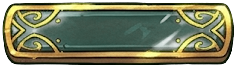
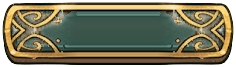
v22: Fan GDDs as a 3-column card grid with one explainer; hover frames re-sliced past the ornaments (no smear) and de-greened; construct outline hugs fist and shelf; About hover colour/mask match
Claude-Session: https://claude.ai/code/session_01DVG5f7VBQkdwappbx1RNPL

diff --git a/concepts/scenes/workshop.js b/concepts/scenes/workshop.js
@@ -21,7 +21,7 @@ PF.init({
     var el=P.el,K=900/572,OX=(1600-1024*K)/2,T='translate('+OX+',0) scale('+K+')';
     var CUT={raven:{x:49.69,y:19.48,w:233.74,h:296.94},construct:{x:769.59,y:48.10,w:254.41,h:273.49},books:{x:50.09,y:331.93,w:234.93,h:239.70},about:{x:333.52,y:358.96,w:377.24,h:212.67},disc:{x:674.98,y:275.88,w:284.22,h:295.75}};
     var HOV={raven:{x:53.66,y:22.66,w:294.56,h:289.39},books:{x:69.57,y:241.29,w:212.67,h:166.96},construct:{x:748.52,y:50.48,w:205.12,h:209.09},about:{x:336.30,y:362.14,w:370.48,h:209.49},disc:{x:718.31,y:280.25,w:236.52,h:256.00}};
-    var RING={"disc":"M843.13 567.66 807.75 568.01 797.81 567.80 795.43 567.05 791.82 563.28 790.78 560.50 789.90 543.80 790.00 537.04 791.11 533.86 790.66 532.90 777.14 526.69 772.77 527.71 768.40 527.68 764.02 526.95 760.05 525.02 758.06 524.64 751.70 527.14 745.34 527.28 735.40 525.91 733.02 524.89 728.66 520.75 728.04 519.16 728.12 517.57 732.08 511.60 736.20 506.75 738.02 502.06 737.52 500.07 735.66 496.89 734.30 488.55 732.62 485.83 730.63 484.50 714.73 481.58 699.63 482.31 694.06 481.34 691.74 480.20 690.03 478.61 685.10 472.25 684.22 469.47 684.51 467.08 687.11 461.91 689.69 459.35 695.25 455.86 702.81 452.48 713.54 449.81 715.21 448.40 712.15 432.10 710.82 418.98 710.84 404.67 712.95 386.39 715.83 374.06 720.62 360.55 728.15 345.04 734.75 335.11 743.21 324.37 753.69 313.89 763.63 306.16 773.57 299.85 783.90 294.66 794.63 290.48 806.56 287.27 821.66 285.13 833.99 285.10 838.76 286.18 846.31 286.54 866.98 292.82 870.56 293.10 873.34 293.94 884.07 299.02 888.84 301.85 906.73 314.81 913.89 320.63 916.27 324.42 924.54 334.71 929.83 342.66 935.87 353.39 941.15 365.71 944.32 375.25 947.48 388.77 949.55 405.47 949.70 415.80 951.16 420.57 951.14 424.15 949.92 431.70 947.06 445.22 944.75 453.57 931.06 482.58 930.88 485.37 932.02 488.94 932.31 493.32 934.85 500.07 934.57 502.06 932.95 505.24 932.77 510.01 931.73 512.40 930.19 513.92 928.20 514.82 921.84 515.13 918.66 518.36 916.67 519.42 911.50 518.67 908.72 519.18 900.37 525.88 894.81 529.02 891.23 529.34 882.88 527.62 871.27 532.67 870.59 533.86 872.83 536.25 874.05 540.62 874.47 551.35 874.03 562.48 873.27 564.47 871.75 565.66 869.37 566.34 843.13 567.66Z","raven":"M142.71 308.88 135.95 309.21 124.82 308.32 122.43 307.29 120.40 305.69 119.48 304.10 119.01 301.71 119.23 291.78 117.71 281.04 118.37 276.27 119.87 274.68 122.43 273.73 132.91 273.09 137.90 268.72 138.29 267.93 137.93 267.13 132.37 266.03 128.80 265.91 111.70 267.86 69.17 267.82 65.19 267.20 62.01 266.00 59.05 263.55 57.37 261.17 56.11 254.41 56.41 240.50 58.54 235.73 60.02 234.19 62.81 232.54 63.61 230.56 63.27 207.11 63.84 202.73 64.93 199.16 63.29 190.81 62.87 168.94 63.54 163.78 66.38 155.83 64.62 150.26 63.68 143.50 63.65 127.60 64.15 122.04 65.82 115.68 68.56 109.71 66.99 105.74 66.98 102.16 68.69 93.02 72.28 81.89 75.73 75.13 79.80 69.57 83.08 66.42 87.78 64.00 89.72 58.04 94.21 52.77 115.68 36.08 120.05 33.68 127.20 32.32 132.77 29.65 138.73 27.74 150.26 25.64 163.38 25.08 175.30 25.59 185.24 27.57 189.22 29.12 192.80 31.47 199.95 32.53 205.52 34.95 218.63 44.51 226.19 50.78 229.38 54.06 231.48 58.04 235.33 60.42 238.60 63.60 240.99 67.18 246.75 78.31 253.01 96.99 254.29 102.56 254.10 107.73 255.30 111.30 255.85 115.28 256.42 125.61 256.77 126.81 257.59 127.51 259.98 127.43 268.72 124.69 270.71 125.12 273.09 126.60 274.68 126.79 284.22 124.08 293.50 120.45 310.86 110.23 315.23 108.20 317.22 108.47 318.79 110.11 318.91 112.50 317.51 116.47 318.01 117.19 318.81 117.18 323.67 114.88 335.11 108.22 338.29 107.27 339.88 107.66 341.25 108.92 341.71 110.51 341.33 112.89 338.59 117.66 332.30 124.82 332.17 126.01 333.91 126.23 345.04 122.83 346.63 123.18 347.73 124.02 348.47 126.81 346.72 130.39 339.88 137.24 335.90 140.14 325.59 145.89 325.81 146.68 326.76 147.01 335.90 147.63 337.49 148.81 338.04 150.66 337.09 152.76 333.91 155.61 323.11 160.60 322.92 161.39 324.12 164.57 322.78 166.99 319.20 169.06 314.43 170.89 308.87 170.89 306.56 174.51 304.89 175.94 301.71 177.51 296.15 179.15 294.78 182.46 292.97 184.24 290.58 185.10 283.03 186.30 280.71 189.61 279.06 190.91 272.55 192.00 271.30 195.58 269.91 196.95 266.73 198.11 262.76 198.19 261.68 199.16 258.40 205.12 257.60 211.48 256.78 228.57 257.59 230.72 261.57 232.72 263.45 234.53 264.98 237.32 265.98 240.50 267.02 246.06 267.05 253.22 265.96 259.98 264.35 262.43 260.77 264.90 256.80 265.86 204.72 266.31 184.49 267.93 183.72 268.72 183.86 269.52 186.83 271.86 188.82 272.30 198.36 272.56 200.30 273.49 201.48 275.08 201.89 277.86 201.88 302.11 201.54 304.10 200.75 305.31 197.96 306.71 188.02 307.60 142.71 308.88Z","books":"M159.01 566.46 142.31 566.37 137.14 565.32 131.58 566.05 128.40 564.83 125.91 562.09 124.11 549.76 124.20 532.27 125.51 529.49 128.40 527.26 131.58 526.46 138.34 525.90 138.71 525.12 138.39 524.32 134.41 520.35 122.43 514.65 116.07 512.56 105.25 508.02 96.99 506.70 87.85 503.87 77.04 498.88 63.60 494.00 61.22 492.59 59.23 490.66 57.82 487.75 57.73 482.98 60.34 474.63 58.96 469.86 59.01 464.70 56.62 458.34 56.31 449.19 57.53 446.81 61.28 443.63 61.92 442.43 62.59 434.88 63.94 430.91 64.63 422.96 66.60 416.60 71.16 409.69 73.54 407.95 77.91 406.00 79.64 403.88 79.85 397.12 78.03 391.55 79.09 387.98 81.89 385.29 85.86 383.09 97.79 377.88 105.34 375.90 106.60 374.86 106.28 373.27 99.95 361.74 97.96 355.38 97.44 351.40 97.47 343.45 98.37 335.50 103.69 321.59 106.00 318.41 107.73 317.26 110.51 316.58 129.99 315.18 147.88 313.15 159.40 311.30 161.79 310.39 166.16 306.59 168.94 305.21 175.70 303.41 183.25 303.66 194.16 296.55 213.47 282.46 217.04 280.79 221.02 280.46 224.20 281.23 228.97 283.44 233.74 283.17 237.71 283.93 242.48 286.41 247.03 290.58 248.72 292.97 250.56 297.74 251.57 303.70 250.67 309.27 253.11 313.24 253.93 317.22 253.81 321.99 252.24 328.75 250.73 331.53 248.45 334.10 243.68 337.19 227.78 341.66 214.66 344.48 213.39 345.44 213.89 346.24 217.84 347.75 220.62 349.67 223.31 352.60 225.14 355.78 226.90 360.55 227.70 365.71 227.52 370.48 226.03 373.66 226.43 374.86 232.94 376.29 241.29 377.00 245.27 377.89 248.84 380.13 253.95 382.01 256.13 384.00 257.46 385.99 258.21 388.37 258.20 391.16 255.44 396.32 254.97 401.09 259.18 406.92 262.38 410.24 263.46 413.42 263.04 416.60 260.91 420.17 259.37 426.53 259.36 428.52 260.56 430.91 263.07 432.89 269.12 435.01 272.30 437.17 274.65 439.65 276.10 442.43 277.99 449.19 278.61 455.95 278.06 463.50 276.35 472.65 274.40 477.02 270.31 480.30 263.16 483.20 258.39 484.56 250.43 488.17 236.92 492.12 221.10 498.09 210.68 502.69 196.77 507.27 193.19 509.48 187.67 515.18 187.55 516.37 188.42 517.43 200.92 525.91 203.13 526.31 209.49 525.46 216.65 525.80 219.83 526.88 222.55 529.49 223.72 533.07 224.13 557.71 223.51 560.50 221.42 562.94 217.84 564.58 211.48 565.36 188.42 565.64 178.48 566.39 159.01 566.46Z","construct":"M1023.60 271.46 1020.02 271.33 1012.47 269.96 1002.53 269.48 981.07 269.90 961.99 270.70 960.40 271.13 960.05 271.90 960.43 272.70 969.14 280.51 971.13 281.04 978.68 280.89 981.07 281.91 982.48 283.43 983.00 285.81 983.07 297.74 984.14 306.09 983.11 308.47 979.88 310.93 945.29 311.99 940.52 311.63 922.63 312.01 916.67 311.56 911.90 312.36 909.12 311.85 906.29 310.06 905.25 307.68 905.94 284.62 907.13 283.01 909.52 281.79 912.70 281.49 916.67 281.95 918.48 281.44 926.24 274.68 926.78 273.89 926.66 273.09 924.62 272.66 918.26 272.97 914.29 272.34 902.36 272.61 897.19 271.19 890.43 270.30 867.38 270.66 861.02 269.90 845.12 269.65 836.77 265.72 830.16 260.77 820.07 257.36 815.30 254.65 810.93 253.74 804.17 248.99 801.70 246.46 799.84 243.68 797.62 235.73 797.48 226.98 798.41 223.01 800.60 220.34 805.76 218.80 811.73 218.51 812.79 217.84 812.53 217.04 795.43 214.06 789.07 212.48 782.40 208.30 775.95 206.54 766.81 202.61 755.28 195.95 751.70 192.80 750.65 190.41 750.66 186.43 751.89 178.48 751.92 173.71 754.02 165.76 757.27 160.81 759.53 155.03 762.31 150.26 764.42 148.53 767.60 147.23 776.35 145.99 782.71 146.88 788.27 150.63 793.84 150.54 800.60 152.73 804.17 154.94 807.58 158.61 808.70 161.39 809.13 165.76 810.14 167.04 816.23 168.94 827.23 171.44 828.42 171.27 829.63 169.74 829.88 168.15 825.67 162.98 823.65 157.02 821.66 155.91 818.48 156.59 816.50 156.09 814.44 154.24 812.21 150.66 811.26 148.27 811.47 146.29 813.25 143.50 816.49 141.12 816.82 139.53 815.06 135.95 809.35 133.17 807.83 131.58 807.17 129.99 807.03 124.02 807.75 121.68 809.74 119.86 814.59 118.06 815.79 116.07 815.70 113.06 812.60 109.32 811.66 107.33 812.42 102.96 813.78 100.57 822.46 92.12 825.24 91.58 830.01 92.94 831.60 92.63 832.26 91.03 832.21 85.86 833.19 83.88 835.98 81.86 842.34 79.65 845.12 79.26 847.50 80.01 853.59 86.26 855.06 87.07 856.64 86.26 859.03 82.68 861.81 81.34 865.79 81.21 874.14 83.11 876.12 82.91 880.89 80.65 882.48 79.08 882.94 77.12 880.81 72.75 880.75 69.17 882.09 67.01 886.86 62.55 890.43 60.71 893.22 60.19 895.60 60.73 900.77 63.10 901.83 62.01 902.94 57.24 905.54 54.78 911.50 52.63 918.26 53.04 921.04 53.87 922.96 55.25 923.69 56.84 924.48 61.61 925.78 63.20 927.80 63.39 931.78 61.32 934.56 61.08 938.53 62.58 942.25 65.99 944.23 68.77 945.11 71.55 944.88 73.94 943.13 77.91 943.91 82.29 944.89 83.58 948.87 86.11 950.54 88.65 950.80 95.80 950.10 99.38 948.07 101.56 942.59 104.15 941.34 106.14 941.12 108.12 942.71 112.50 942.91 117.53 944.83 118.86 950.06 120.84 951.57 122.04 952.57 126.01 954.66 128.80 956.77 133.17 960.80 138.03 961.87 140.72 962.34 144.70 961.97 148.67 956.82 156.33 956.17 158.61 957.59 163.78 961.05 170.14 961.99 175.55 964.94 182.06 965.09 186.04 964.36 189.61 968.04 192.80 969.31 195.58 969.43 207.11 968.52 211.08 966.87 215.06 967.16 216.94 969.94 218.84 977.89 219.71 989.81 218.81 992.60 219.89 994.98 222.64 996.17 223.28 1005.71 223.44 1008.91 222.61 1010.52 218.63 1012.87 216.86 1023.60 215.89Z","about":"M559.70 567.76 478.21 567.87 477.01 567.25 476.33 565.66 476.34 561.29 477.13 556.92 476.63 544.20 476.22 542.55 475.03 541.64 468.27 541.30 460.32 540.20 453.17 540.54 436.47 539.79 422.96 540.14 420.17 539.57 416.60 537.61 415.40 537.88 412.62 540.00 410.24 540.65 400.70 539.41 391.95 540.51 378.83 541.34 364.92 541.30 357.76 539.26 351.40 534.79 344.67 528.30 342.93 525.12 341.98 521.14 341.99 516.77 342.94 512.00 346.11 505.24 356.98 489.74 357.59 488.15 357.53 484.97 357.99 483.38 363.06 475.83 363.29 474.24 361.88 468.27 363.46 462.71 365.25 459.93 367.30 457.84 376.55 451.58 379.80 443.63 384.40 438.46 389.96 435.25 395.53 434.23 396.78 432.89 399.06 419.78 403.24 376.05 405.23 371.28 408.65 367.41 413.81 364.79 416.60 364.24 420.17 364.27 424.94 364.99 436.76 368.10 448.00 369.86 451.58 370.91 453.57 372.44 454.43 374.06 454.53 375.65 452.90 378.83 448.80 382.25 440.05 386.42 439.12 387.58 439.05 388.77 440.84 393.27 444.42 399.92 460.72 426.56 463.18 430.11 465.09 431.17 483.78 429.40 490.53 430.01 494.51 431.25 498.09 433.15 499.28 432.89 500.36 426.93 497.92 423.75 496.82 420.97 487.24 413.02 482.40 408.25 480.83 406.26 480.36 403.88 482.88 397.52 488.20 389.57 494.09 385.19 494.10 384.00 491.25 379.63 491.16 377.64 491.82 376.05 493.32 374.64 497.69 372.52 501.66 369.11 505.64 367.79 513.59 367.28 516.22 368.50 517.38 370.88 521.14 383.92 522.84 387.98 524.32 389.21 536.25 388.99 549.37 391.83 564.07 395.87 588.32 395.83 589.52 395.52 590.71 394.35 594.04 387.58 595.48 386.60 597.07 386.36 601.84 387.98 606.21 387.41 610.98 388.36 614.56 390.66 618.99 395.13 620.34 398.31 620.06 404.27 623.08 408.25 624.55 411.43 624.71 413.81 623.60 418.58 627.14 428.52 627.07 430.51 626.41 432.10 622.12 436.47 623.16 440.84 624.50 441.82 628.07 442.47 632.45 444.39 636.02 444.33 645.96 442.60 649.54 443.44 651.93 445.17 658.29 459.93 662.90 465.89 664.65 470.07 668.31 476.22 671.80 480.20 673.51 482.98 674.44 485.37 675.38 490.66 689.17 508.42 692.09 512.80 694.33 517.57 697.24 519.96 701.15 525.12 701.87 527.11 701.70 529.49 699.63 532.11 694.46 534.44 673.39 538.48 649.14 539.44 634.83 541.30 622.91 542.13 618.53 540.85 612.17 535.14 611.38 535.46 609.39 539.42 606.21 540.79 594.29 541.37 588.32 540.25 585.54 540.23 580.37 540.72 573.61 542.85 562.48 543.54 561.42 544.20 561.06 545.39 561.18 565.66 560.81 566.86 559.70 567.76Z"};
+    var RING={"disc":"M843.13 567.66 807.75 568.01 797.81 567.80 795.43 567.05 791.82 563.28 790.78 560.50 789.90 543.80 790.00 537.04 791.11 533.86 790.66 532.90 777.14 526.69 772.77 527.71 768.40 527.68 764.02 526.95 760.05 525.02 758.06 524.64 751.70 527.14 745.34 527.28 735.40 525.91 733.02 524.89 728.66 520.75 728.04 519.16 728.12 517.57 732.08 511.60 736.20 506.75 738.02 502.06 737.52 500.07 735.66 496.89 734.30 488.55 732.62 485.83 730.63 484.50 714.73 481.58 699.63 482.31 694.06 481.34 691.74 480.20 690.03 478.61 685.10 472.25 684.22 469.47 684.51 467.08 687.11 461.91 689.69 459.35 695.25 455.86 702.81 452.48 713.54 449.81 715.21 448.40 712.15 432.10 710.82 418.98 710.84 404.67 712.95 386.39 715.83 374.06 720.62 360.55 728.15 345.04 734.75 335.11 743.21 324.37 753.69 313.89 763.63 306.16 773.57 299.85 783.90 294.66 794.63 290.48 806.56 287.27 821.66 285.13 833.99 285.10 838.76 286.18 846.31 286.54 866.98 292.82 870.56 293.10 873.34 293.94 884.07 299.02 888.84 301.85 906.73 314.81 913.89 320.63 916.27 324.42 924.54 334.71 929.83 342.66 935.87 353.39 941.15 365.71 944.32 375.25 947.48 388.77 949.55 405.47 949.70 415.80 951.16 420.57 951.14 424.15 949.92 431.70 947.06 445.22 944.75 453.57 931.06 482.58 930.88 485.37 932.02 488.94 932.31 493.32 934.85 500.07 934.57 502.06 932.95 505.24 932.77 510.01 931.73 512.40 930.19 513.92 928.20 514.82 921.84 515.13 918.66 518.36 916.67 519.42 911.50 518.67 908.72 519.18 900.37 525.88 894.81 529.02 891.23 529.34 882.88 527.62 871.27 532.67 870.59 533.86 872.83 536.25 874.05 540.62 874.47 551.35 874.03 562.48 873.27 564.47 871.75 565.66 869.37 566.34 843.13 567.66Z","raven":"M142.71 308.88 135.95 309.21 124.82 308.32 122.43 307.29 120.40 305.69 119.48 304.10 119.01 301.71 119.23 291.78 117.71 281.04 118.37 276.27 119.87 274.68 122.43 273.73 132.91 273.09 137.90 268.72 138.29 267.93 137.93 267.13 132.37 266.03 128.80 265.91 111.70 267.86 69.17 267.82 65.19 267.20 62.01 266.00 59.05 263.55 57.37 261.17 56.11 254.41 56.41 240.50 58.54 235.73 60.02 234.19 62.81 232.54 63.61 230.56 63.27 207.11 63.84 202.73 64.93 199.16 63.29 190.81 62.87 168.94 63.54 163.78 66.38 155.83 64.62 150.26 63.68 143.50 63.65 127.60 64.15 122.04 65.82 115.68 68.56 109.71 66.99 105.74 66.98 102.16 68.69 93.02 72.28 81.89 75.73 75.13 79.80 69.57 83.08 66.42 87.78 64.00 89.72 58.04 94.21 52.77 115.68 36.08 120.05 33.68 127.20 32.32 132.77 29.65 138.73 27.74 150.26 25.64 163.38 25.08 175.30 25.59 185.24 27.57 189.22 29.12 192.80 31.47 199.95 32.53 205.52 34.95 218.63 44.51 226.19 50.78 229.38 54.06 231.48 58.04 235.33 60.42 238.60 63.60 240.99 67.18 246.75 78.31 253.01 96.99 254.29 102.56 254.10 107.73 255.30 111.30 255.85 115.28 256.42 125.61 256.77 126.81 257.59 127.51 259.98 127.43 268.72 124.69 270.71 125.12 273.09 126.60 274.68 126.79 284.22 124.08 293.50 120.45 310.86 110.23 315.23 108.20 317.22 108.47 318.79 110.11 318.91 112.50 317.51 116.47 318.01 117.19 318.81 117.18 323.67 114.88 335.11 108.22 338.29 107.27 339.88 107.66 341.25 108.92 341.71 110.51 341.33 112.89 338.59 117.66 332.30 124.82 332.17 126.01 333.91 126.23 345.04 122.83 346.63 123.18 347.73 124.02 348.47 126.81 346.72 130.39 339.88 137.24 335.90 140.14 325.59 145.89 325.81 146.68 326.76 147.01 335.90 147.63 337.49 148.81 338.04 150.66 337.09 152.76 333.91 155.61 323.11 160.60 322.92 161.39 324.12 164.57 322.78 166.99 319.20 169.06 314.43 170.89 308.87 170.89 306.56 174.51 304.89 175.94 301.71 177.51 296.15 179.15 294.78 182.46 292.97 184.24 290.58 185.10 283.03 186.30 280.71 189.61 279.06 190.91 272.55 192.00 271.30 195.58 269.91 196.95 266.73 198.11 262.76 198.19 261.68 199.16 258.40 205.12 257.60 211.48 256.78 228.57 257.59 230.72 261.57 232.72 263.45 234.53 264.98 237.32 265.98 240.50 267.02 246.06 267.05 253.22 265.96 259.98 264.35 262.43 260.77 264.90 256.80 265.86 204.72 266.31 184.49 267.93 183.72 268.72 183.86 269.52 186.83 271.86 188.82 272.30 198.36 272.56 200.30 273.49 201.48 275.08 201.89 277.86 201.88 302.11 201.54 304.10 200.75 305.31 197.96 306.71 188.02 307.60 142.71 308.88Z","books":"M159.01 566.46 142.31 566.37 137.14 565.32 131.58 566.05 128.40 564.83 125.91 562.09 124.11 549.76 124.20 532.27 125.51 529.49 128.40 527.26 131.58 526.46 138.34 525.90 138.71 525.12 138.39 524.32 134.41 520.35 122.43 514.65 116.07 512.56 105.25 508.02 96.99 506.70 87.85 503.87 77.04 498.88 63.60 494.00 61.22 492.59 59.23 490.66 57.82 487.75 57.73 482.98 60.34 474.63 58.96 469.86 59.01 464.70 56.62 458.34 56.31 449.19 57.53 446.81 61.28 443.63 61.92 442.43 62.59 434.88 63.94 430.91 64.63 422.96 66.60 416.60 71.16 409.69 73.54 407.95 77.91 406.00 79.64 403.88 79.85 397.12 78.03 391.55 79.09 387.98 81.89 385.29 85.86 383.09 97.79 377.88 105.34 375.90 106.60 374.86 106.28 373.27 99.95 361.74 97.96 355.38 97.44 351.40 97.47 343.45 98.37 335.50 103.69 321.59 106.00 318.41 107.73 317.26 110.51 316.58 129.99 315.18 147.88 313.15 159.40 311.30 161.79 310.39 166.16 306.59 168.94 305.21 175.70 303.41 183.25 303.66 194.16 296.55 213.47 282.46 217.04 280.79 221.02 280.46 224.20 281.23 228.97 283.44 233.74 283.17 237.71 283.93 242.48 286.41 247.03 290.58 248.72 292.97 250.56 297.74 251.57 303.70 250.67 309.27 253.11 313.24 253.93 317.22 253.81 321.99 252.24 328.75 250.73 331.53 248.45 334.10 243.68 337.19 227.78 341.66 214.66 344.48 213.39 345.44 213.89 346.24 217.84 347.75 220.62 349.67 223.31 352.60 225.14 355.78 226.90 360.55 227.70 365.71 227.52 370.48 226.03 373.66 226.43 374.86 232.94 376.29 241.29 377.00 245.27 377.89 248.84 380.13 253.95 382.01 256.13 384.00 257.46 385.99 258.21 388.37 258.20 391.16 255.44 396.32 254.97 401.09 259.18 406.92 262.38 410.24 263.46 413.42 263.04 416.60 260.91 420.17 259.37 426.53 259.36 428.52 260.56 430.91 263.07 432.89 269.12 435.01 272.30 437.17 274.65 439.65 276.10 442.43 277.99 449.19 278.61 455.95 278.06 463.50 276.35 472.65 274.40 477.02 270.31 480.30 263.16 483.20 258.39 484.56 250.43 488.17 236.92 492.12 221.10 498.09 210.68 502.69 196.77 507.27 193.19 509.48 187.67 515.18 187.55 516.37 188.42 517.43 200.92 525.91 203.13 526.31 209.49 525.46 216.65 525.80 219.83 526.88 222.55 529.49 223.72 533.07 224.13 557.71 223.51 560.50 221.42 562.94 217.84 564.58 211.48 565.36 188.42 565.64 178.48 566.39 159.01 566.46Z","construct":"M1023.60 273.45 1008.50 272.27 979.88 272.26 969.14 272.71 965.55 273.49 965.16 274.29 965.57 275.33 968.35 277.93 972.72 278.29 980.27 277.72 983.12 279.06 985.28 281.84 985.71 284.22 985.73 306.88 984.35 309.66 981.47 311.36 977.49 312.34 959.60 313.58 921.04 313.61 911.90 314.31 909.52 313.89 905.94 312.15 904.12 309.27 903.99 286.61 904.37 283.83 905.55 281.84 907.93 280.45 919.20 279.06 922.29 276.27 922.61 275.48 922.22 274.68 920.65 274.27 909.12 274.22 890.04 273.07 870.56 273.73 849.09 272.04 845.52 271.31 842.34 270.04 826.83 261.14 817.69 258.26 805.37 249.95 800.18 244.87 794.63 242.53 792.81 240.50 790.66 236.09 785.89 232.95 784.48 230.16 781.91 221.82 779.45 219.43 778.59 217.84 778.34 208.21 777.54 207.26 773.60 205.12 772.69 203.13 773.48 201.14 776.35 198.27 781.12 194.66 789.07 190.07 794.63 184.88 802.58 181.59 813.32 173.85 816.89 172.42 822.06 171.20 828.02 171.49 829.63 169.74 829.73 167.75 826.15 163.78 823.74 158.61 816.89 156.37 814.78 154.63 813.10 152.25 810.78 147.48 810.26 144.30 810.95 142.31 814.11 138.73 814.42 136.75 813.32 135.41 807.35 132.02 805.58 129.19 805.57 124.02 807.25 117.27 808.94 115.58 814.11 114.18 815.25 113.29 814.97 112.10 812.08 108.52 811.47 106.53 812.31 102.96 814.91 99.22 822.06 92.34 824.05 91.62 828.42 91.51 829.65 87.06 834.39 82.79 837.17 81.37 843.13 79.44 845.52 79.30 847.50 80.01 852.27 84.82 853.86 85.69 855.06 85.43 859.83 82.09 862.61 81.21 866.19 81.26 875.33 83.36 876.99 83.08 880.89 80.67 881.94 79.50 881.65 75.53 880.63 71.95 880.75 69.17 881.93 67.18 885.66 63.47 887.65 62.23 892.82 60.45 897.59 60.60 905.94 54.55 909.52 53.06 912.70 52.58 914.68 52.98 917.47 54.42 920.65 54.17 922.24 54.65 923.42 56.05 924.62 59.68 928.20 61.73 929.79 61.99 933.76 60.99 938.14 62.35 940.98 64.80 944.87 70.76 945.00 73.54 943.13 77.91 943.66 81.49 944.50 83.23 948.07 85.41 950.22 87.85 950.76 89.84 950.79 95.80 950.40 97.79 949.04 99.78 946.48 101.99 942.91 103.88 941.34 106.14 941.12 108.12 942.77 112.89 942.66 116.87 944.10 118.50 954.04 122.60 957.79 126.01 960.24 129.59 965.70 141.12 966.31 145.89 965.68 150.26 964.37 152.37 959.60 156.79 958.75 159.40 963.60 169.74 967.90 182.06 968.58 184.84 968.68 189.22 971.65 194.39 972.26 201.94 970.66 210.29 970.87 211.88 972.72 212.88 979.48 213.82 996.57 214.74 1000.94 215.45 1006.51 213.99 1023.60 212.31Z","about":"M559.70 567.76 478.21 567.87 477.01 567.25 476.33 565.66 476.34 561.29 477.13 556.92 476.63 544.20 476.22 542.55 475.03 541.64 468.27 541.30 460.32 540.20 453.17 540.54 436.47 539.79 422.96 540.14 420.17 539.57 416.60 537.61 415.40 537.88 412.62 540.00 410.24 540.65 400.70 539.41 391.95 540.51 378.83 541.34 364.92 541.30 357.76 539.26 351.40 534.79 344.67 528.30 342.93 525.12 341.98 521.14 341.99 516.77 342.94 512.00 346.11 505.24 356.98 489.74 357.59 488.15 357.53 484.97 357.99 483.38 363.06 475.83 363.29 474.24 361.88 468.27 363.46 462.71 365.25 459.93 367.30 457.84 376.55 451.58 379.80 443.63 384.40 438.46 389.96 435.25 395.53 434.23 396.78 432.89 399.06 419.78 403.24 376.05 405.23 371.28 408.65 367.41 413.81 364.79 416.60 364.24 420.17 364.27 424.94 364.99 436.76 368.10 448.00 369.86 451.58 370.91 453.57 372.44 454.43 374.06 454.53 375.65 452.90 378.83 448.80 382.25 440.05 386.42 439.12 387.58 439.05 388.77 440.84 393.27 444.42 399.92 460.72 426.56 463.18 430.11 465.09 431.17 483.78 429.40 490.53 430.01 494.51 431.25 498.09 433.15 499.28 432.89 500.36 426.93 497.92 423.75 496.82 420.97 487.24 413.02 482.40 408.25 480.83 406.26 480.36 403.88 482.88 397.52 488.20 389.57 494.09 385.19 494.10 384.00 491.25 379.63 491.16 377.64 491.82 376.05 493.32 374.64 497.69 372.52 501.66 369.11 505.64 367.79 513.59 367.28 516.22 368.50 517.38 370.88 521.14 383.92 522.84 387.98 524.32 389.21 536.25 388.99 549.37 391.83 564.07 395.87 588.32 395.83 589.52 395.52 590.71 394.35 594.04 387.58 595.48 386.60 597.07 386.36 601.84 387.98 606.21 387.41 610.98 388.36 614.56 390.66 618.99 395.13 620.34 398.31 620.06 404.27 623.08 408.25 624.55 411.43 624.71 413.81 623.60 418.58 627.14 428.52 627.07 430.51 626.41 432.10 622.12 436.47 623.16 440.84 624.50 441.82 628.07 442.47 632.45 444.39 636.02 444.33 645.96 442.60 649.54 443.44 651.93 445.17 658.29 459.93 662.90 465.89 664.65 470.07 668.31 476.22 671.80 480.20 673.51 482.98 674.44 485.37 675.38 490.66 689.17 508.42 692.09 512.80 694.33 517.57 697.24 519.96 701.15 525.12 701.87 527.11 701.70 529.49 699.63 532.11 694.46 534.44 673.39 538.48 649.14 539.44 634.83 541.30 622.91 542.13 618.53 540.85 612.17 535.14 611.38 535.46 609.39 539.42 606.21 540.79 594.29 541.37 588.32 540.25 585.54 540.23 580.37 540.72 573.61 542.85 562.48 543.54 561.42 544.20 561.06 545.39 561.18 565.66 560.81 566.86 559.70 567.76Z"};
     var SIGN={raven:[123,276,75,29],books:[129,531,90,30],construct:[909,284,71,26],about:[479,536,79,30],disc:[794,536,78,27]};
     P.defs(
       '<radialGradient id="vig" cx=".5" cy=".5" r=".78"><stop offset=".62" stop-color="#0a0604" stop-opacity="0"/><stop offset="1" stop-color="#0a0604" stop-opacity=".5"/></radialGradient>'

diff --git a/concepts/core/core.css b/concepts/core/core.css
@@ -326,9 +326,9 @@ body[data-theme=workshop] .pf-badge{border:0;border-radius:0;background:none;col
 body[data-theme=workshop] .pf-badge.ghost{color:#2f6b57;text-shadow:none;border-image:url(../ui/chip.png) 22 30 fill / 8px 12px stretch}
 body[data-theme=workshop] .pf-badges{gap:6px 4px}
 body[data-theme=workshop] .pf-btn{background:none;border:10px solid transparent;border-image:url(../ui/btn.png) 26 30 fill / 13px 16px stretch;border-radius:0;color:#f6ead0!important;padding:3px 10px;text-shadow:0 1px 0 rgba(0,0,0,.55);filter:none}
-body[data-theme=workshop] .pf-btn:hover,body[data-theme=workshop] .pf-btn:focus-visible{border-image:url(../ui/btn-hot.png) 26 30 fill / 13px 16px stretch;filter:none;outline:none}
+body[data-theme=workshop] .pf-btn:hover,body[data-theme=workshop] .pf-btn:focus-visible{border-image:url(../ui/btn-hot.png) 26 64 fill / 13px 32px stretch;filter:none;outline:none}
 body[data-theme=workshop] .pf-btn.ghost{border-image:url(../ui/chip.png) 22 30 fill / 11px 15px stretch;color:#2f6b57!important;text-shadow:none}
-body[data-theme=workshop] .pf-btn.ghost:hover{border-image:url(../ui/btn-hot.png) 26 30 fill / 13px 16px stretch;color:#f6ead0!important}
+body[data-theme=workshop] .pf-btn.ghost:hover{border-image:url(../ui/btn-hot.png) 26 64 fill / 13px 32px stretch;color:#f6ead0!important}
 /* lists */
 body[data-theme=workshop] .pf-did ul,body[data-theme=workshop] .pf-body ul.pf-ul{list-style:none;padding-left:4px}
 body[data-theme=workshop] .pf-did li,body[data-theme=workshop] .pf-ul li{position:relative;padding-left:22px}
@@ -397,7 +397,7 @@ body[data-theme=workshop] .pf-x:active{transform:scale(.94)}
 .pf-copy:hover,.pf-copy:focus-visible{border-color:var(--acc);color:var(--ink);outline:none}
 .pf-copy.ok{border-color:#2f8f5b;color:#2f8f5b}
 body[data-theme=workshop] .pf-tabs{padding:0 30px;border-bottom:0;margin-top:2px}
-body[data-theme=workshop] .pf-tab{color:#5a3b22;border-radius:0;border:7px solid transparent;border-image:url(../ui/chip.png) 22 30 fill / 8px 12px stretch;margin:0 4px 6px 0;padding:2px 10px;font-size:13px;box-shadow:none;background:none}
+body[data-theme=workshop] .pf-tab{color:#5a3b22;border-radius:0;border:7px solid transparent;border-image:url(../ui/chip.png) 22 30 fill / 8px 12px stretch;margin:0 4px 6px 0;padding:2px 19px;font-size:13px;box-shadow:none;background:none}
 body[data-theme=workshop] .pf-tab:hover{color:#2a1a0e}
 body[data-theme=workshop] .pf-tab.on{color:#f6ead0;border-image:url(../ui/btn.png) 26 30 fill / 9px 11px stretch;text-shadow:0 1px 0 #1b110a;box-shadow:none;background:none}
 body[data-theme=workshop] .pf-tab:focus-visible{outline:2px solid #c8362b;outline-offset:1px}
@@ -439,7 +439,7 @@ body[data-theme=workshop] .pf-badge{border:1px dashed #9a7a4a;border-image:none;
 body[data-theme=workshop] .pf-badge:first-child{background:rgba(47,107,87,.14);border-color:#2f6b57;color:#1f5a47}
 body[data-theme=workshop] .pf-badge.ghost{background:transparent;border:1px dashed #9a7a4a;border-image:none;color:#6b4a2b}
 body[data-theme=workshop] .pf-badges{gap:6px}
-body[data-theme=workshop] .pf-btn{cursor:pointer;padding:5px 12px;font-size:13px;letter-spacing:.07em;transition:filter .12s,transform .12s}
+body[data-theme=workshop] .pf-btn{cursor:pointer;padding:5px 22px;font-size:13px;letter-spacing:.07em;transition:filter .12s,transform .12s}
 body[data-theme=workshop] .pf-btn:hover,body[data-theme=workshop] .pf-btn:focus-visible{border-image:url(../ui/btn.png) 26 30 fill / 13px 16px stretch;filter:brightness(1.28) saturate(1.12) drop-shadow(0 0 5px rgba(255,210,122,.85));transform:translateY(-1px);outline:none}
 body[data-theme=workshop] .pf-btn:active{filter:brightness(.92);transform:translateY(1px)}
 body[data-theme=workshop] .pf-btn.ghost:hover,body[data-theme=workshop] .pf-btn.ghost:focus-visible{border-image:url(../ui/chip.png) 22 30 fill / 11px 15px stretch;color:#1b5a46!important;filter:brightness(1.06) saturate(1.25) drop-shadow(0 0 5px rgba(255,210,122,.9))}
@@ -456,7 +456,7 @@ body[data-theme=workshop] .pf-tab:active{transform:translateY(1px);filter:bright
 .pf-copy:hover,.pf-copy:focus-visible{background:var(--acc);border-color:var(--acc);color:var(--btn-ink);outline:none}
 .pf-copy:active{transform:translateY(1px)}
 .pf-copy.ok{background:#2f8f5b;border-color:#2f8f5b;color:#fff}
-body[data-theme=workshop] .pf-copy{border:7px solid transparent;border-image:url(../ui/chip.png) 22 30 fill / 8px 12px stretch;background:none;color:#5a3b22;padding:1px 6px 1px 4px;font:700 12px var(--body,system-ui);cursor:pointer;transition:filter .12s,transform .12s,color .12s}
+body[data-theme=workshop] .pf-copy{border:7px solid transparent;border-image:url(../ui/chip.png) 22 30 fill / 8px 12px stretch;background:none;color:#5a3b22;padding:1px 16px 1px 15px;font:700 12px var(--body,system-ui);cursor:pointer;transition:filter .12s,transform .12s,color .12s}
 body[data-theme=workshop] .pf-copy:hover,body[data-theme=workshop] .pf-copy:focus-visible{background:none;color:#1b5a46;filter:brightness(1.06) saturate(1.25) drop-shadow(0 0 4px rgba(255,210,122,.9));transform:translateY(-1px)}
 body[data-theme=workshop] .pf-copy.ok{background:none;color:#1f6b45;border-image:url(../ui/chip.png) 22 30 fill / 8px 12px stretch;filter:saturate(1.3)}
 .pf-x{cursor:pointer}
@@ -469,7 +469,7 @@ body[data-theme=workshop] .pf-copy.ok{background:none;color:#1f6b45;border-image
 /* v17: Gemini's gold hover frame is back; no filters (they drew a box around the button); label gets an outline so it stays readable over the ornaments */
 body[data-theme=workshop] .pf-btn:hover,body[data-theme=workshop] .pf-btn:focus-visible,
 body[data-theme=workshop] .pf-btn.ghost:hover,body[data-theme=workshop] .pf-btn.ghost:focus-visible{
- border-image:url(../ui/btn-hot.png) 26 30 fill / 13px 16px stretch;filter:none;outline:none;box-shadow:none;
+ border-image:url(../ui/btn-hot.png) 26 64 fill / 13px 32px stretch;filter:none;outline:none;box-shadow:none;
  color:#fff7e0!important;text-shadow:none;-webkit-text-stroke:3.2px #10291f;paint-order:stroke fill;transform:translateY(-1px)}
 body[data-theme=workshop] .pf-btn:active,body[data-theme=workshop] .pf-btn.ghost:active{filter:none;transform:translateY(1px)}
 body[data-theme=workshop] .pf-btn{transition:transform .12s}
@@ -482,11 +482,41 @@ body[data-theme=workshop] .pf-btn{transition:transform .12s}
 body[data-theme=workshop] .pf-tab:not(.on):hover,body[data-theme=workshop] .pf-tab:not(.on):focus-visible,
 body[data-theme=workshop] .pf-btn.ghost:hover,body[data-theme=workshop] .pf-btn.ghost:focus-visible,
 body[data-theme=workshop] .pf-copy:hover,body[data-theme=workshop] .pf-copy:focus-visible{
- border-image:url(../ui/chip-hot.png) 26 30 fill / 11px 14px stretch;filter:none;box-shadow:none;outline:none;
+ border-image:url(../ui/chip-hot.png) 26 64 fill / 11px 27px stretch;filter:none;box-shadow:none;outline:none;
  color:#2a1a0e!important;text-shadow:none;-webkit-text-stroke:3px #f6ead0;paint-order:stroke fill;transform:translateY(-1px)}
-body[data-theme=workshop] .pf-tab:not(.on):hover,body[data-theme=workshop] .pf-tab:not(.on):focus-visible{border-image-width:10px 12px}
-body[data-theme=workshop] .pf-copy:hover,body[data-theme=workshop] .pf-copy:focus-visible{border-image-width:9px 12px}
+body[data-theme=workshop] .pf-tab:not(.on):hover,body[data-theme=workshop] .pf-tab:not(.on):focus-visible{border-image-width:10px 25px}
+body[data-theme=workshop] .pf-copy:hover,body[data-theme=workshop] .pf-copy:focus-visible{border-image-width:9px 22px}
 body[data-theme=workshop] .pf-tab.on:hover,body[data-theme=workshop] .pf-tab.on:focus-visible{
- border-image:url(../ui/btn-hot.png) 26 30 fill / 10px 12px stretch;filter:none;color:#fff7e0;-webkit-text-stroke:3px #10291f;paint-order:stroke fill;text-shadow:none;transform:translateY(-1px)}
+ border-image:url(../ui/btn-hot.png) 26 64 fill / 10px 25px stretch;filter:none;color:#fff7e0;-webkit-text-stroke:3px #10291f;paint-order:stroke fill;text-shadow:none;transform:translateY(-1px)}
 body[data-theme=workshop] .pf-tab:active,body[data-theme=workshop] .pf-copy:active{filter:none;transform:translateY(1px)}
 body[data-theme=workshop] .pf-copy.ok:hover{color:#1f6b45!important}
+
+/* v22: Fan GDDs tab - explainer once at the top, then a 2-3 column card grid (like the original site) */
+.pf-note{margin:2px 0 18px;padding:12px 16px;border-left:4px solid var(--acc);border-radius:6px;background:var(--card);font-size:14px;line-height:1.5;color:var(--ink2)}
+.pf-note strong{display:block;font:700 15px var(--head);color:var(--ink);margin-bottom:2px}
+.pf-cards{display:grid;grid-template-columns:repeat(auto-fit,minmax(max(220px,calc((100% - 40px)/3)),1fr));gap:20px;align-items:start}
+.pf-cards .pf-item,body[data-theme=workshop] .pf-cards .pf-item+.pf-item{padding:0;border:0;position:static;display:flex;flex-direction:column;min-width:0;
+  border-radius:10px;overflow:hidden;background:var(--card);box-shadow:0 0 0 1px var(--line),0 3px 8px rgba(40,24,8,.18)}
+body[data-theme=workshop] .pf-cards .pf-item+.pf-item:before{display:none}
+.pf-cards .pf-gdd{display:flex;flex-direction:column;gap:0}
+.pf-cards .pf-gdd .cover{border:0;border-radius:0;max-width:none;width:100%}
+.pf-cards .pf-gdd .cover img{position:absolute;inset:0}
+.pf-cards .pf-lead{position:absolute;left:10px;top:10px;z-index:1;padding:3px 9px;border-radius:5px;background:#c9922c;color:#fff;font:700 11px/1.3 var(--head);letter-spacing:.08em;text-transform:uppercase;box-shadow:0 1px 3px rgba(0,0,0,.4)}
+.pf-cards .pf-gdd-txt{padding:12px 14px 12px}
+.pf-cards .pf-gdd-txt h3{margin:0 0 6px;font-size:19px}
+.pf-cards .pf-gdd-txt p{font-size:14px;line-height:1.5}
+.pf-cards .pf-btns{gap:8px 10px;margin:10px 0 2px}
+.pf-cards [data-slot]{padding:0 14px}
+.pf-cards [data-slot]:not(:empty){padding:0 14px 14px}
+/* an opened reader takes the whole row so the document has room */
+.pf-cards .pf-item.open{grid-column:1/-1}
+.pf-cards .pf-item.open .pf-gdd{flex-direction:row;align-items:stretch}
+.pf-cards .pf-item.open .pf-gdd .cover{flex:0 0 170px;width:170px;aspect-ratio:auto}
+.pf-cards .pf-item.open .pf-gdd-txt{flex:1}
+@media(max-width:560px){.pf-cards .pf-item.open .pf-gdd{flex-direction:column}.pf-cards .pf-item.open .pf-gdd .cover{flex:none;width:100%;aspect-ratio:3/4}}
+
+/* v22: hover frames are sliced past the corner ornaments (64px of the art) so the swirls are never stretched; the centre of the art is flat so wide buttons stay clean */
+@media (max-width:760px){
+ body[data-theme=workshop] .pf-tab:not(.on):hover,body[data-theme=workshop] .pf-tab.on:hover{border-image-width:8px 16px}
+ body[data-theme=workshop] .pf-tab{padding:0 9px}
+}

diff --git a/concepts/core/data.js b/concepts/core/data.js
@@ -93,12 +93,11 @@
   /* ---------- design documents ---------- */
   function gdd(id,name,pid,lead,text){
     return {id:id,name:name,tag:lead?'Lead':'GDD',render:function(){
-      return badges(lead?['Fan GDD - lead document']:['Fan GDD'])+
-      '<div class="pf-gdd"><div class="cover">'+(name.charAt(0))+'<img src="'+IMG(pid,700)+'" alt="'+esc(name)+' Fan GDD cover" loading="lazy" style="position:absolute;inset:0"></div>'+
-      '<div><h3>'+esc(name)+'</h3><p>'+text+'</p>'+
-      '<p class="pf-sub">Why &ldquo;fan&rdquo; GDDs? These are design breakdowns I wrote for games I didn\'t build &mdash; reverse-engineering their systems, pacing, and mechanics to practice the same documentation and systems-thinking I\'d apply on an original project.</p>'+
-      '<div class="pf-btns"><button class="pf-btn" data-embed="'+PREV(pid)+'">Read it here</button><a class="pf-btn ghost" href="'+PREV(pid)+'" target="_blank" rel="noopener">Open in new tab</a><a class="pf-quiet" href="'+DL(pid)+'">Download PDF</a></div></div></div><div data-slot></div>'}}
+      return '<article class="pf-gdd"><div class="cover">'+(name.charAt(0))+'<img src="'+IMG(pid,700)+'" alt="'+esc(name)+' Fan GDD cover" loading="lazy">'+(lead?'<span class="pf-lead">Lead GDD</span>':'')+'</div>'+
+      '<div class="pf-gdd-txt"><h3>'+esc(name)+'</h3><p>'+text+'</p>'+
+      '<div class="pf-btns"><button class="pf-btn" data-embed="'+PREV(pid)+'">Read it here</button><a class="pf-btn ghost" href="'+PREV(pid)+'" target="_blank" rel="noopener">Open in new tab</a><a class="pf-quiet" href="'+DL(pid)+'">Download PDF</a></div></div></article><div data-slot></div>'}}
   }
+  var fanNote='<aside class="pf-note"><strong>Why &ldquo;fan&rdquo; GDDs?</strong> These are design breakdowns I wrote for games I didn\'t build &mdash; reverse-engineering their systems, pacing, and mechanics to practice the same documentation and systems-thinking I\'d apply on an original project.</aside>';
   var docs=[
     gdd('hollow','Hollow Knight','1Jzdpa451eeeXNj9yLJJbzz2695zXMsPu',1,'A full teardown of Hollow Knight\'s ability progression, map design, and difficulty pacing - my most in-depth fan GDD, written as the flagship piece of this series.'),
     gdd('hades','Hades','1QEM6i9MJinDy4t_NXPgBnSwASEnRjw1m',0,'A breakdown of Hades\' roguelike loop, boon/weapon systems, and floor structure - with a critique of how the game handles player motivation and build variety once the main story wraps.'),
@@ -182,7 +181,7 @@
         tabs:[{id:'jams',name:'Game Jams',ids:['bigred','clockout']},{id:'student',name:'Student Games',ids:['bumping','warped','worldly']},{id:'shipped',name:'Shipped Games',ids:['shipped']}],
         more:[{t:'Shipped Games page',u:'../shipped-games.html'},{t:'Student Games page',u:'../student-games.html'},{t:'Game Jams page',u:'../game-jams.html'}]},
       docs:{title:'Design Documents',blurb:'Fan GDDs and systems design logs',items:docs.slice(-1).concat(docs.slice(0,-1)),
-        tabs:[{id:'logs',name:'Systems Logs',ids:['log']},{id:'fan',name:'Fan GDDs',ids:['hollow','hades','bg3','ghost','ori','days']}],
+        tabs:[{id:'logs',name:'Systems Logs',ids:['log']},{id:'fan',name:'Fan GDDs',cards:true,intro:fanNote,ids:['hollow','hades','bg3','ghost','ori','days']}],
         more:[{t:'Fan GDD page',u:'../fan-gdd-series.html'},{t:'Systems Documents page',u:'../system-documents.html'}]},
       art:{title:'3D Art',blurb:'Blender, Substance Painter and Unity',items:art,more:[{t:'3D Art page',u:'../3d-art.html'}]},
       about:{title:'About Me',blurb:'Character sheet, experience and education',items:about,more:[{t:'Full home page',u:'../index.html'}]},

diff --git a/concepts/core/core.js b/concepts/core/core.js
@@ -176,9 +176,10 @@
       if(body.getAttribute('data-tab')!==key){
         body.setAttribute('data-tab',key);
         var multi=S.items.length>1;
-        body.innerHTML=list.map(function(x){
+        var cards=!!(tab&&tab.cards);
+        body.innerHTML=(tab&&tab.intro?tab.intro:'')+(cards?'<div class="pf-cards">':'')+list.map(function(x){
           var html=lazify(x.render()).replace(/<iframe(?![^>]*loading=)/g,'<iframe loading="lazy"');
-          return '<section class="pf-item" data-id="'+x.id+'">'+(multi?'<header class="pf-ih"><h3 class="pf-it">'+esc(x.name)+'</h3>'+(x.tag?'<span class="pf-itag">'+esc(x.tag)+'</span>':'')+'<button type="button" class="pf-copy" title="Copy a link to this project" data-copy="'+sec+'/'+x.id+'">Copy link</button></header>':'')+html+'</section>'}).join('');
+          return '<section class="pf-item'+(cards?' card':'')+'" data-id="'+x.id+'">'+(multi&&!cards?'<header class="pf-ih"><h3 class="pf-it">'+esc(x.name)+'</h3>'+(x.tag?'<span class="pf-itag">'+esc(x.tag)+'</span>':'')+'<button type="button" class="pf-copy" title="Copy a link to this project" data-copy="'+sec+'/'+x.id+'">Copy link</button></header>':'')+html+'</section>'}).join('')+(cards?'</div>':'');
         over.querySelectorAll('.pf-tab').forEach(function(b){var on=b.getAttribute('data-tab')===key;b.classList.toggle('on',on);b.setAttribute('aria-selected',on?'true':'false');b.tabIndex=on?0:-1});
       }
       cur.item=it.id;
@@ -238,6 +239,7 @@
         lz.replaceWith(fr);fr.focus();return}
       var b=e.target.closest('[data-embed]');
       if(b){var slot=(b.closest('.pf-item')||over).querySelector('[data-slot]');
+        var it0=b.closest('.pf-item');if(it0)it0.classList.add('open');
         slot.innerHTML='<iframe class="pf-read" src="'+b.getAttribute('data-embed')+'" title="Document preview" allow="fullscreen"></iframe>';
         b.textContent='Reading...';b.disabled=true;slot.scrollIntoView({behavior:'smooth',block:'nearest'})}
     });
